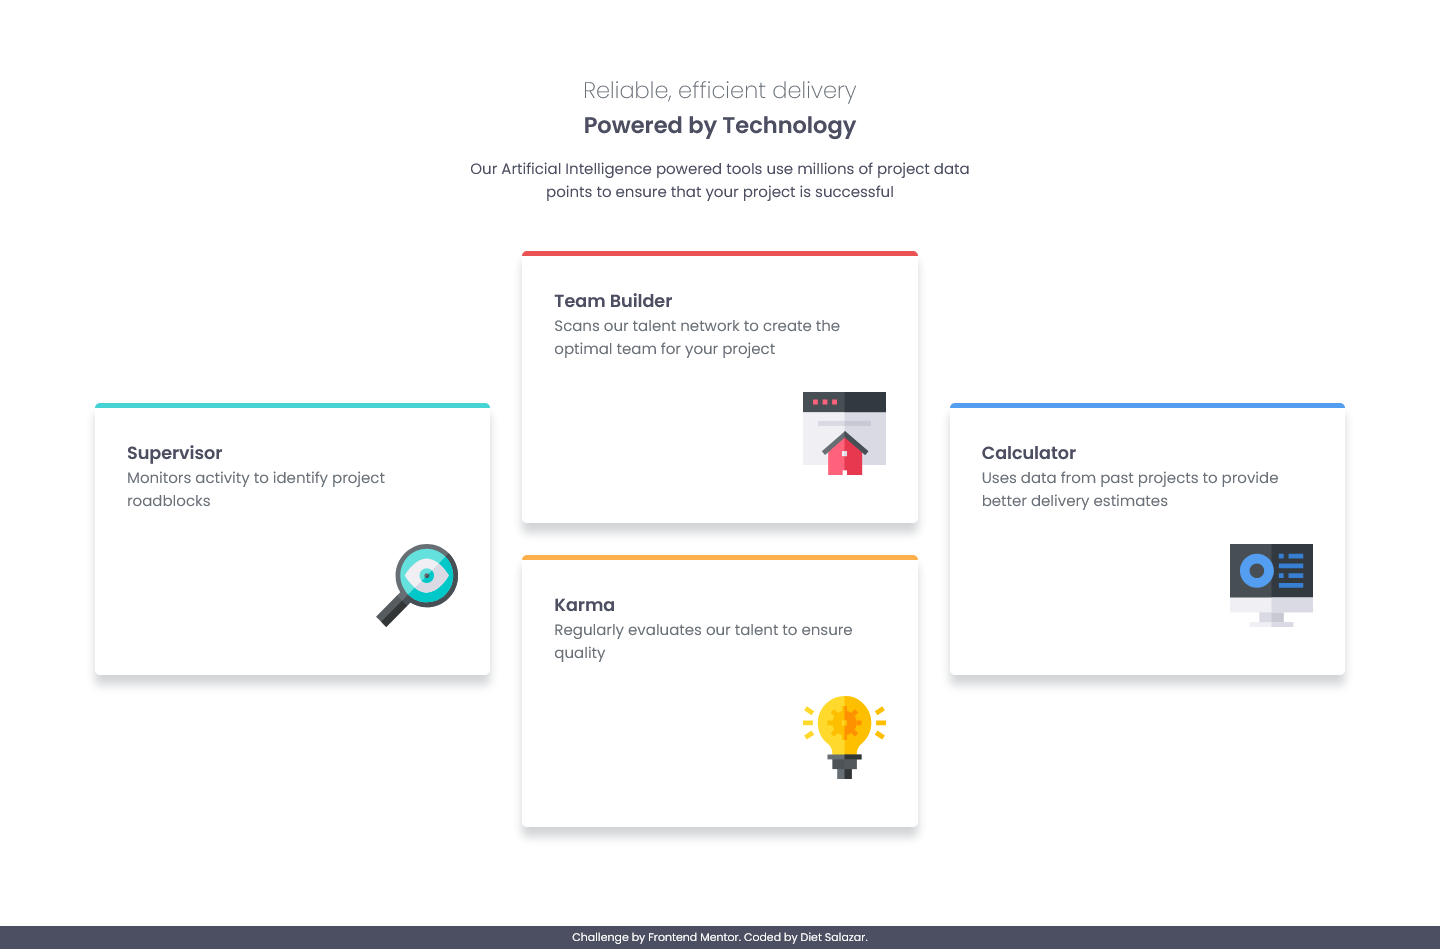
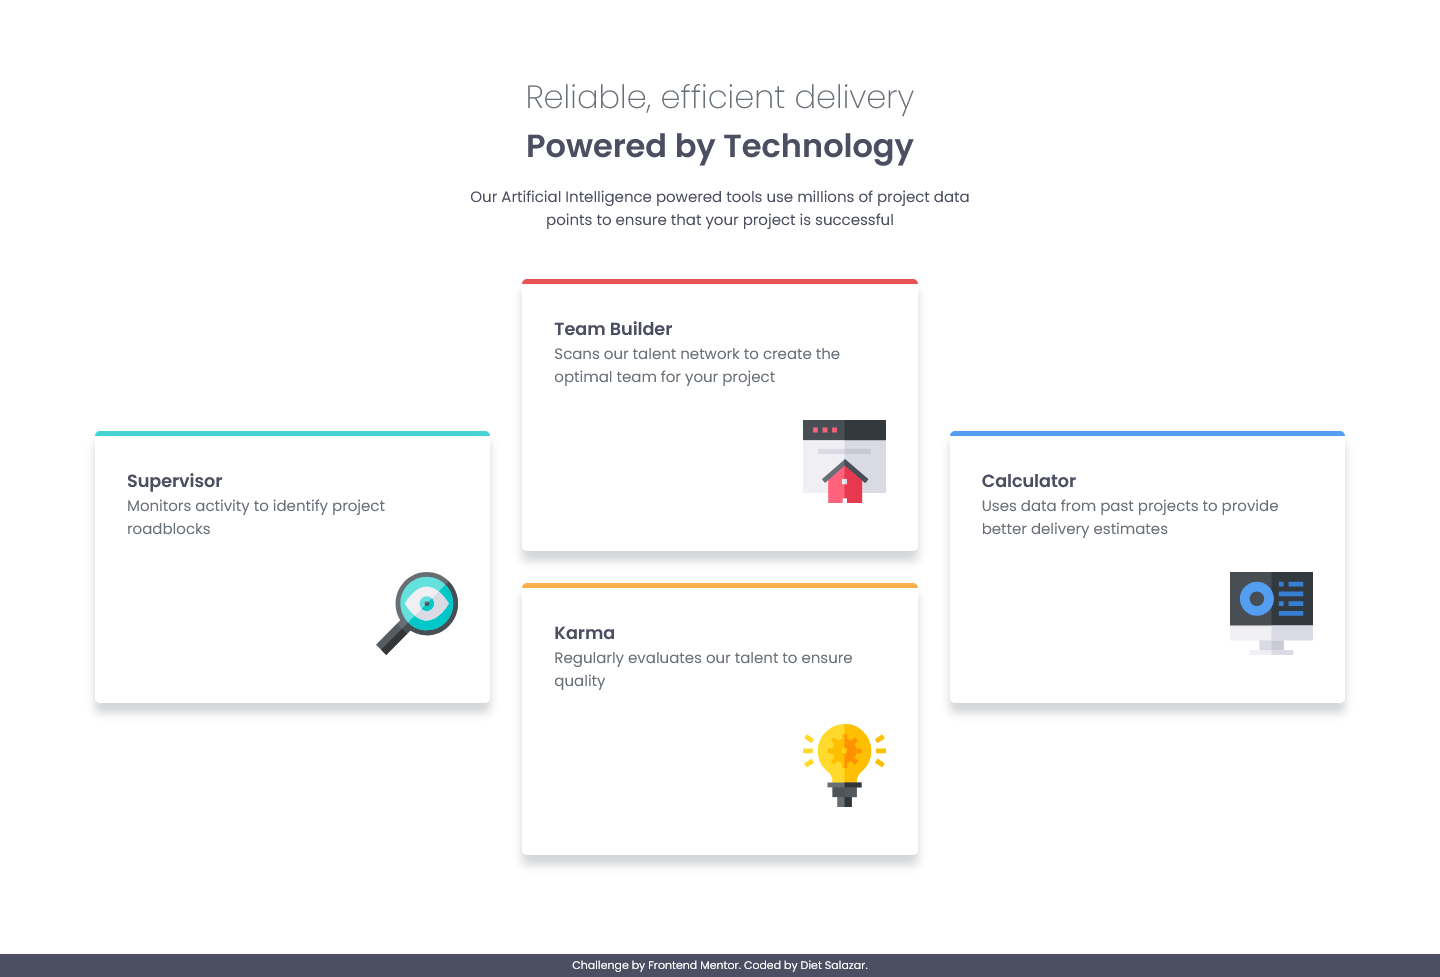
Update CSS and screenshots

diff --git a/style.css b/style.css
@@ -34,7 +34,7 @@ h1 {
 }
 
 h1, h2 {
-    font-size: 1.5em;
+    font-size: 1.5rem;
 }
 
 h2, h3 {
@@ -97,6 +97,10 @@ p {
 }
 
 @media (min-width: 62em) {
+    h1, h2 {
+    font-size: 2rem;
+}
+    
     .intro {
         margin: 2rem auto 0 auto;
         max-width: 500px;
